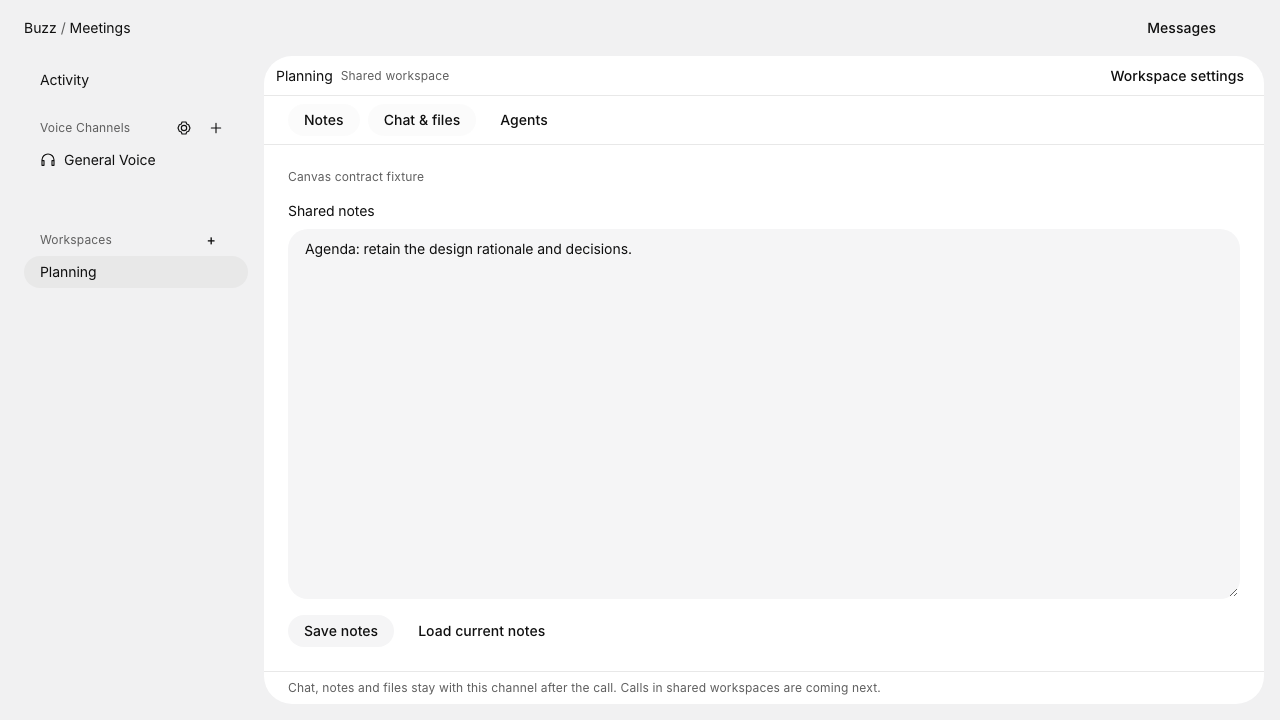
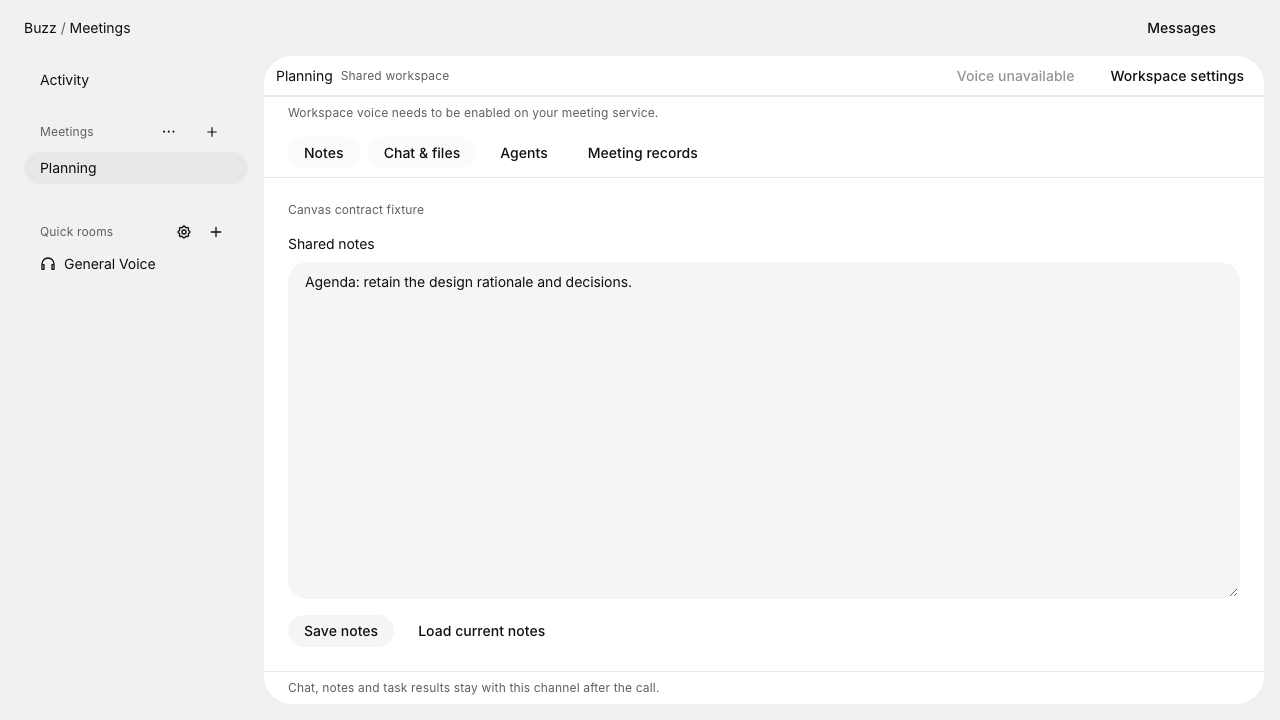
Refresh Meetings interface evidence and fixture limits

diff --git a/README.md b/README.md
@@ -9,6 +9,9 @@ the Rust admission server and LiveKit.
 
 ![Three participants sharing two screens in Meetings](docs/screenshots/meetings.png)
 
+Screenshots use the browser fixture. Media transport is real; native content and
+agent execution are simulated and still require acceptance in Buzz.
+
 ## Install in Buzz
 
 1. Open **Settings → Plugins → Manage plugins → Add**.
